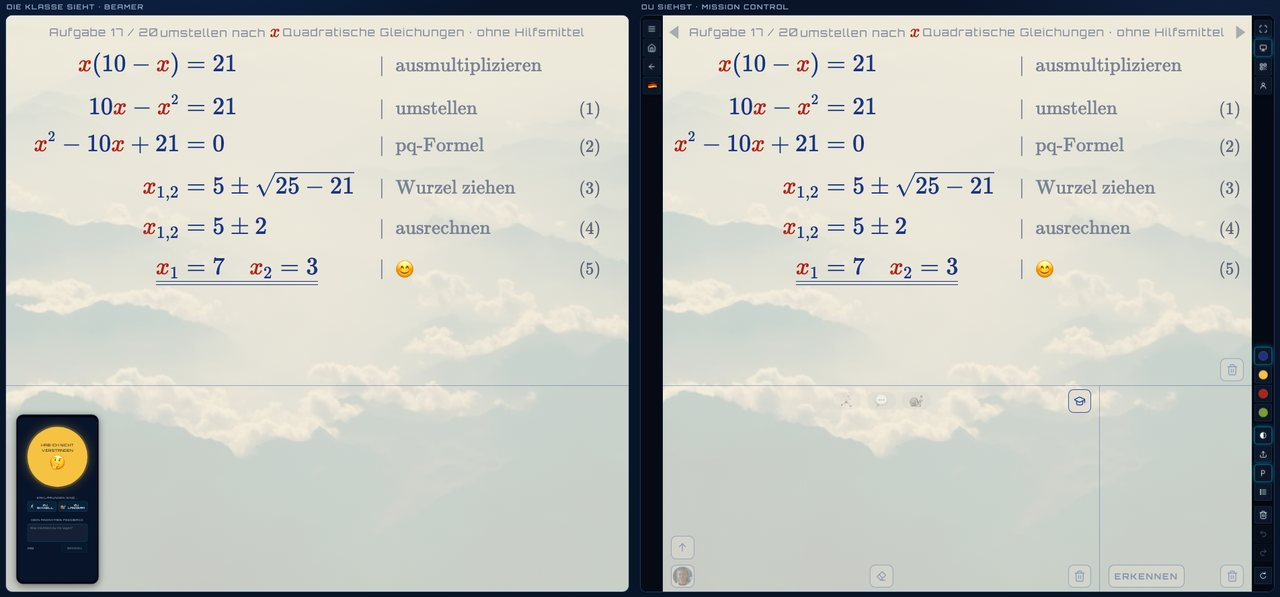
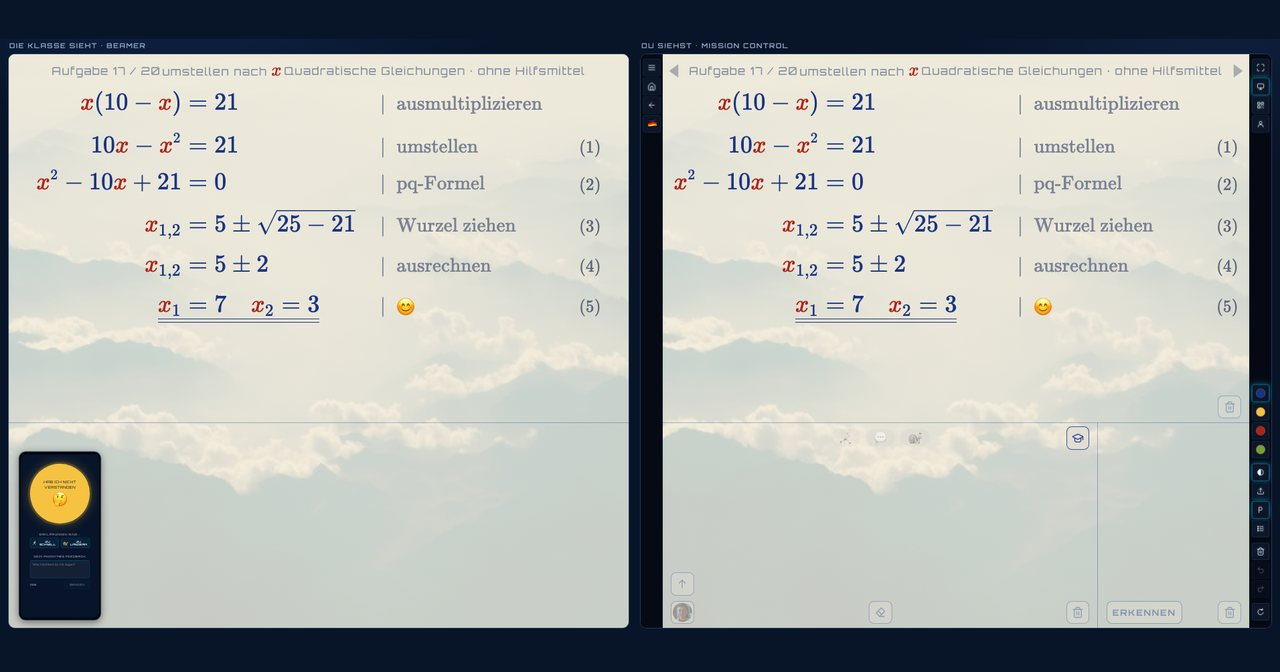
tours: Vorrechnen - Solita's line and answer close before the pen goes on (as Esc does, a tap on her picture would switch to Doc); the still behind the title in the card's own format 640:336, dark above and below, so the phone is no longer cut in the link preview (Doc, 03.10.2026: "die App links unt

diff --git a/HTML/tours/vorrechnen.js b/HTML/tours/vorrechnen.js
@@ -348,7 +348,12 @@
                     backend().understood(c);
                     await t.wait(300);
                     backend().understood(c);
-                    await schreibe(t, L(t, 14) + 1.2, 1);                                          /* "und es geht weiter" */
+                    /* her line and her answer go before the pen goes on (Doc, 03.10.2026: "die Antwort und die Fragebox von
+                       ihr steht da, wenn die Aufgabe mit Stift vorgerechnet wird ... wieder wegmachen") - as Esc closes it;
+                       a tap on her picture would switch to Doc */
+                    await t.at(L(t, 14) - 0.3);                                                    /* "und es geht weiter" */
+                    ev(t, 'control', () => solitaOffen(false));
+                    await schreibe(t, L(t, 14) + 1.2, 1);
                     await hoch(t, L(t, 15) + 0.2);                                                 /* "Zehn hoch zehn ..." */
                     await schreibe(t, L(t, 15) + 1.4, 2);
                     await hoch(t, L(t, 16) - 0.2);                                                 /* "ist zehn." */
